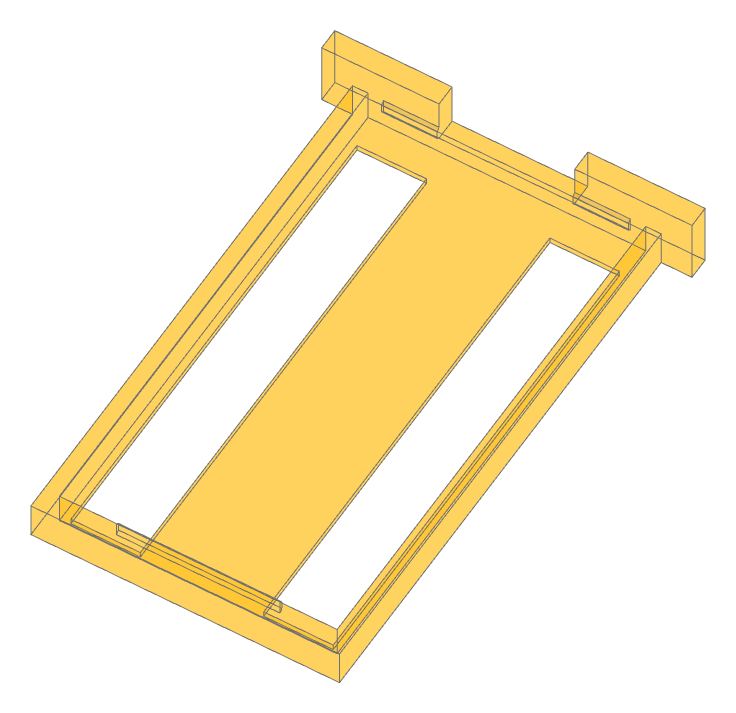
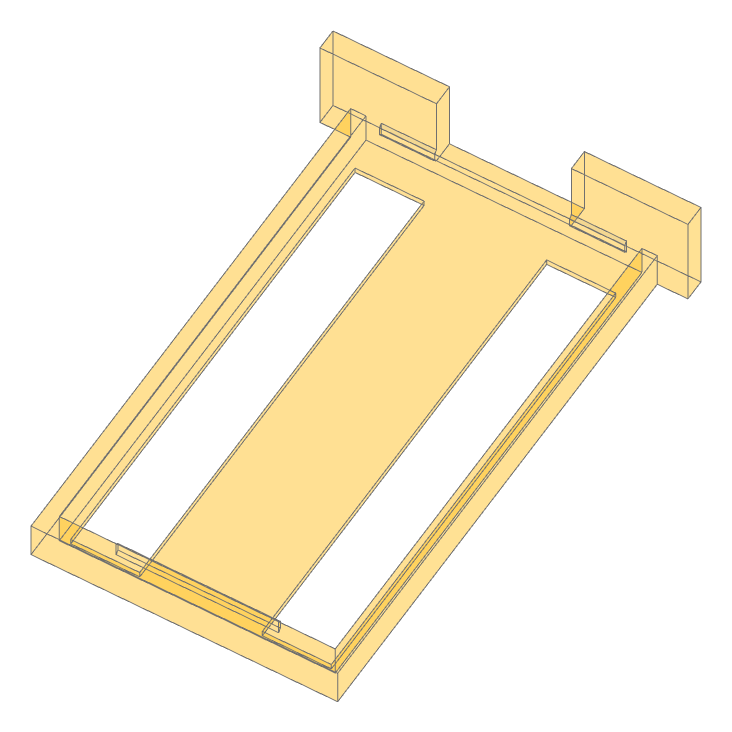
Improve controller holder
* Parameterize fully via config
* Extend height to full inner heigher, using the now-standard bracket generator

diff --git a/klavgen/renderer_controller.py b/klavgen/renderer_controller.py
@@ -1,8 +1,8 @@
 import cadquery as cq
 
 from .classes import Controller, RenderedSideHolder
-from .config import CaseConfig, ControllerConfig
-from .renderer_side_holder import render_side_case_hole_rail
+from .config import CaseConfig, Config, ControllerConfig
+from .renderer_side_holder import render_side_case_hole_rail, render_side_mount_bracket
 from .utils import grow_yz
 
 
@@ -14,129 +14,113 @@ def render_controller_case_cutout_and_support(
     return render_side_case_hole_rail(controller, config, case_config)
 
 
-def render_controller_holder(config: ControllerConfig = ControllerConfig()):
+def render_controller_holder(config: Config = Config()):
+    c_config = config.controller_config
+
     wp = cq.Workplane("XY")
     wp_yz = cq.Workplane("YZ")
 
-    # Base
-    base_center_width = 8
-    base_height = 0.4
-    base_side_width = 0.5
-    base_front_depth = 2
-    base_back_depth = 0.4
+    # Mount bracket
 
-    # PCB lips
-    pcb_lips_start_height_from_pcb_bottom = 1.2
-    pcb_lips_height = 1
-    pcb_lips_depth = 0.2
-    pcb_lips_front_side_margin = 1
-    pcb_lips_back_width = 10.6
+    holder = render_side_mount_bracket(
+        config=config, side_holder_config=c_config, fill_case_wall_hole=False
+    )
 
-    # USB port hole
-    usb_port_hole_start_height_from_pcb_bottom = 1.2
+    # Side and back supports wrapper
 
-    # Calculated
-    pcb_width = config.item_width  # + 2 * config.item_width_tolerance
-    pcb_depth = config.item_depth  # + 2 * config.item_depth_tolerance
+    sides_and_back_support_height = (
+        c_config.base_height + c_config.pcb_lips_z_from_pcb_bottom + c_config.pcb_lips_height
+    )
 
-    # Base
+    side_back_supports_wp = wp.center(0, c_config.holder_bracket_depth)
 
-    holder = wp.box(
-        pcb_width + 2 * config.side_supports_width,
-        pcb_depth + config.holder_bracket_depth + config.back_support_depth,
-        base_height,
+    side_back_supports_outer_perimeter = side_back_supports_wp.box(
+        c_config.item_width + 2 * c_config.side_supports_width,
+        c_config.item_depth + c_config.back_support_depth,
+        sides_and_back_support_height,
         centered=grow_yz,
     )
 
-    base_hole_width = pcb_width / 2 - base_side_width - base_center_width / 2
-    base_hole_depth = pcb_depth - base_front_depth - base_back_depth
+    holder = holder.union(side_back_supports_outer_perimeter)
 
-    base_hole_left = wp.center(
-        -base_center_width / 2 - base_hole_width,
-        config.holder_bracket_depth + base_front_depth,
-    ).box(base_hole_width, base_hole_depth, base_height, centered=False)
+    # PCB hole
 
-    base_hole_right = wp.center(
-        base_center_width / 2, config.holder_bracket_depth + base_front_depth
-    ).box(base_hole_width, base_hole_depth, base_height, centered=False)
-
-    holder = holder.cut(base_hole_left).cut(base_hole_right)
-
-    # Front support
-    front_support = wp.box(
-        config.width, config.holder_bracket_depth, config.holder_height, centered=grow_yz
+    pcb_hole = side_back_supports_wp.workplane(offset=c_config.base_height).box(
+        c_config.item_width,
+        c_config.item_depth,
+        sides_and_back_support_height,
+        centered=grow_yz,
     )
 
-    holder = holder.union(front_support)
+    holder = holder.cut(pcb_hole)
 
-    # PCB lips
+    # Base holes
+
+    base_hole_width = (
+        c_config.item_width / 2 - c_config.base_side_width - c_config.base_center_width / 2
+    )
+    base_hole_depth = c_config.item_depth - c_config.base_front_depth - c_config.base_back_depth
+
+    base_hole_left = wp.center(
+        -c_config.base_center_width / 2 - base_hole_width,
+        c_config.holder_bracket_depth + c_config.base_front_depth,
+    ).box(base_hole_width, base_hole_depth, c_config.base_height, centered=False)
+
+    holder = holder.cut(base_hole_left)
+
+    base_hole_right = wp.center(
+        c_config.base_center_width / 2, c_config.holder_bracket_depth + c_config.base_front_depth
+    ).box(base_hole_width, base_hole_depth, c_config.base_height, centered=False)
+
+    holder = holder.cut(base_hole_right)
+
+    # Front PCB lips
 
     front_pcb_lips = (
-        wp_yz.workplane(offset=-pcb_width / 2 + pcb_lips_front_side_margin)
+        wp_yz.workplane(offset=-c_config.item_width / 2 + c_config.pcb_lips_front_side_inset)
         .center(
-            config.holder_bracket_depth,
-            base_height + pcb_lips_start_height_from_pcb_bottom,
+            c_config.holder_bracket_depth,
+            c_config.base_height + c_config.pcb_lips_z_from_pcb_bottom,
         )
-        .lineTo(pcb_lips_depth, pcb_lips_depth)
-        .lineTo(pcb_lips_depth, pcb_lips_height - pcb_lips_depth)
-        .lineTo(0, pcb_lips_height)
+        .lineTo(c_config.pcb_lips_depth, c_config.pcb_lips_depth)
+        .lineTo(c_config.pcb_lips_depth, c_config.pcb_lips_height - c_config.pcb_lips_depth)
+        .lineTo(0, c_config.pcb_lips_height)
         .close()
-        .extrude(pcb_width - 2 * pcb_lips_front_side_margin)
+        .extrude(c_config.item_width - 2 * c_config.pcb_lips_front_side_inset)
     )
 
     holder = holder.union(front_pcb_lips)
 
+    # Back PCB lips
+
     back_pcb_lips = (
-        wp_yz.workplane(offset=-pcb_lips_back_width / 2)
+        wp_yz.workplane(offset=-c_config.pcb_lips_back_width / 2)
         .center(
-            config.holder_bracket_depth + pcb_depth,
-            base_height + pcb_lips_start_height_from_pcb_bottom,
+            c_config.holder_bracket_depth + c_config.item_depth,
+            c_config.base_height + c_config.pcb_lips_z_from_pcb_bottom,
         )
-        .lineTo(-pcb_lips_depth, pcb_lips_depth)
-        .lineTo(-pcb_lips_depth, pcb_lips_height - pcb_lips_depth)
-        .lineTo(0, pcb_lips_height)
+        .lineTo(-c_config.pcb_lips_depth, c_config.pcb_lips_depth)
+        .lineTo(-c_config.pcb_lips_depth, c_config.pcb_lips_height - c_config.pcb_lips_depth)
+        .lineTo(0, c_config.pcb_lips_height)
         .close()
-        .extrude(pcb_lips_back_width)
+        .extrude(c_config.pcb_lips_back_width)
     )
 
     holder = holder.union(back_pcb_lips)
 
-    # Side and back supports
-    sides_and_back_support_height = (
-        base_height + pcb_lips_start_height_from_pcb_bottom + pcb_lips_height
-    )
-
-    side_back_supports_outer_shape = wp.box(
-        pcb_width + 2 * config.side_supports_width,
-        pcb_depth + config.holder_bracket_depth + config.back_support_depth,
-        sides_and_back_support_height,
-        centered=grow_yz,
-    )
-
-    side_back_supports_inner_shape = wp.box(
-        pcb_width,
-        pcb_depth + config.holder_bracket_depth,
-        sides_and_back_support_height,
-        centered=grow_yz,
-    )
-
-    side_back_supports = side_back_supports_outer_shape.cut(side_back_supports_inner_shape)
-
-    holder = holder.union(side_back_supports)
-
     # USB port hole on front
     usb_port_hole = wp.workplane(
-        offset=base_height + usb_port_hole_start_height_from_pcb_bottom
+        offset=c_config.base_height + c_config.usb_port_hole_start_height_from_pcb_bottom
     ).box(
-        config.jack_width,
-        config.holder_bracket_depth + pcb_lips_depth,
-        config.holder_height,
+        c_config.usb_port_hole_width,
+        c_config.holder_bracket_depth + c_config.pcb_lips_depth,
+        config.case_config.case_inner_height,
         centered=grow_yz,
     )
 
     holder = holder.cut(usb_port_hole)
 
-    # Rotate 180 degrees to orient so USB port is on the back
+    # Rotate 180 degrees around Z so USB port is on the back
     holder = holder.rotate((0, 0, 0), (0, 0, 1), 180)
 
     return holder

diff --git a/klavgen/config.py b/klavgen/config.py
@@ -667,8 +667,23 @@ class ControllerConfig(SideHolderConfig):
 
     case_hole_width: float = 18
 
-    jack_width: float = 8.8  # 9.5 usbc / 8.8 microusb
-    holder_height: float = 4.7
+    # Base
+    base_height: float = 0.4
+    base_center_width: float = 8
+    base_side_width: float = 0.5
+    base_front_depth: float = 2
+    base_back_depth: float = 0.4
+
+    # PCB lips
+    pcb_lips_front_side_inset: float = 1
+    pcb_lips_z_from_pcb_bottom: float = 1.2
+    pcb_lips_height: float = 1
+    pcb_lips_depth: float = 0.2
+    pcb_lips_back_width: float = 10.6
+
+    # USB port hole
+    usb_port_hole_start_height_from_pcb_bottom: float = 1.2
+    usb_port_hole_width: float = 8.8  # 9.5 usbc / 8.8 microusb
 
 
 @dataclass

diff --git a/klavgen/renderer_case.py b/klavgen/renderer_case.py
@@ -656,7 +656,7 @@ def render_case(
         if controller:
             controller_config = config.controller_config
 
-            controller_holder = render_controller_holder(controller_config).translate(
+            controller_holder = render_controller_holder(config).translate(
                 (0, -case_config.case_thickness - controller_config.horizontal_tolerance, 0)
             )
 

diff --git a/klavgen/keyboard.py b/klavgen/keyboard.py
@@ -92,7 +92,7 @@ def render_and_save_keyboard(
 
     controller_holder = None
     if controller:
-        controller_holder = render_controller_holder(config.controller_config)
+        controller_holder = render_controller_holder(config)
         export_controller_holder_to_stl(controller_holder)
 
     trrs_jack_holder = None
